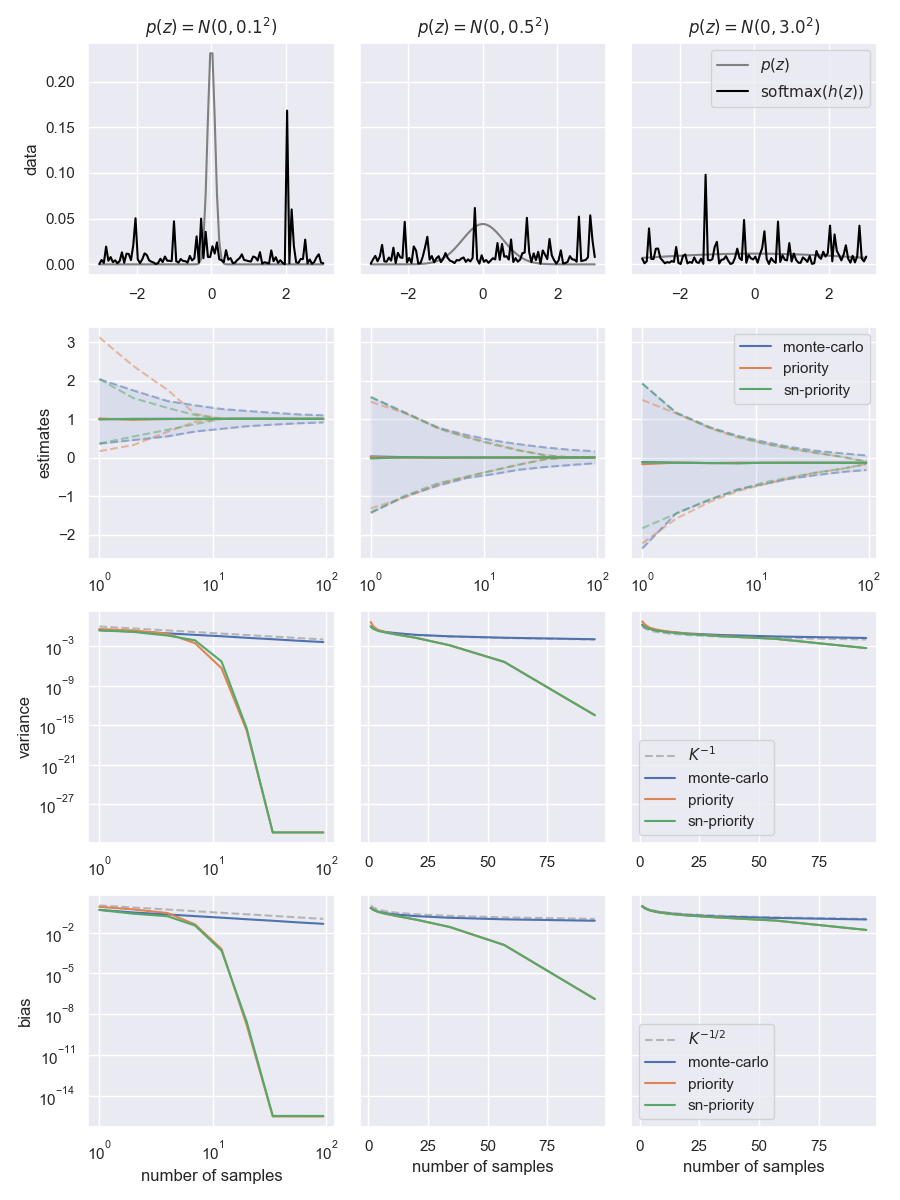
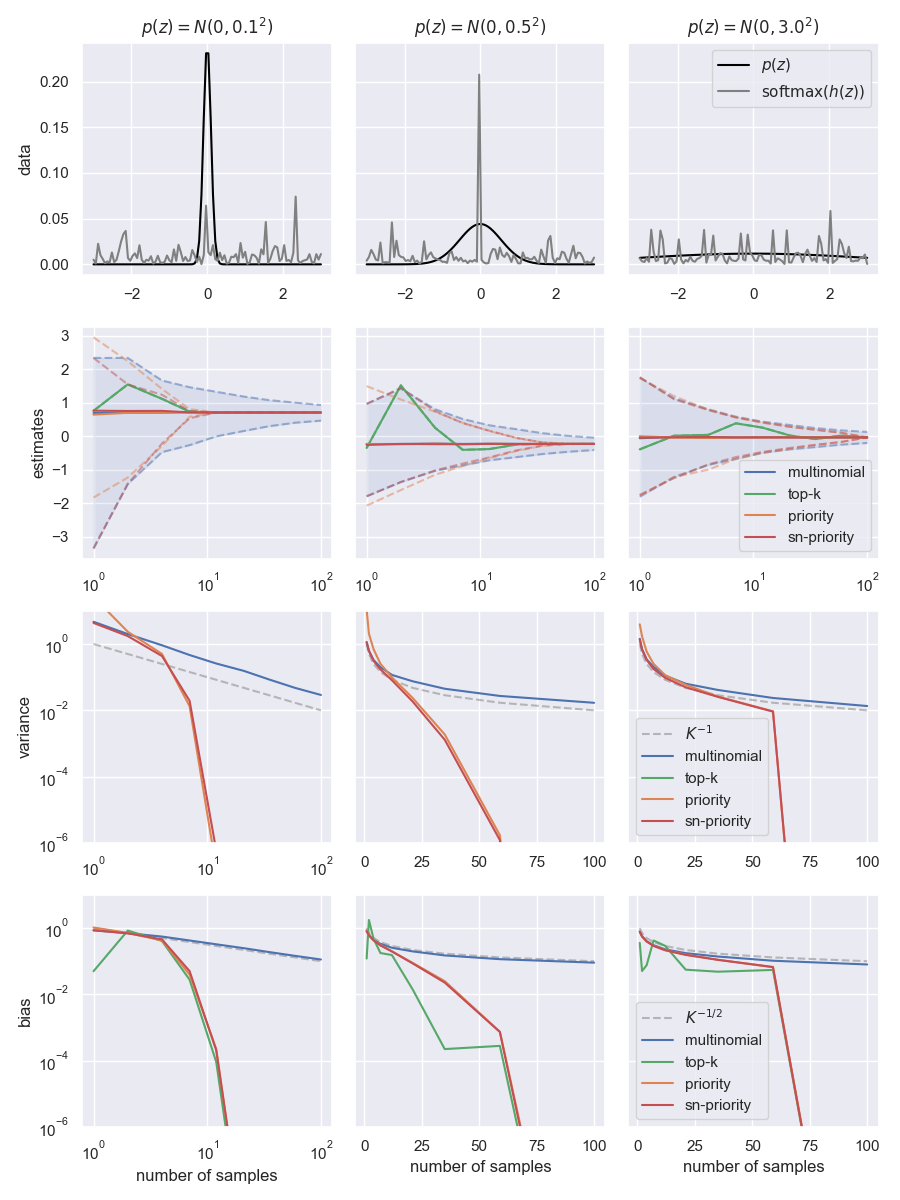
feat: sampling methods+vod grads

diff --git a/experiments/sampling.py b/experiments/sampling.py
@@ -1,4 +1,5 @@
 import argparse
+import dataclasses
 
 import numpy as np
 import rich
@@ -10,12 +11,13 @@ import seaborn as sns
 import vod
 
 sns.set()
+colors = sns.color_palette()
 
 
 class Args(pydantic.BaseModel):
     n_trials: int = 5_000
     n_samples_min: int = 1
-    n_samples_max: int = 95
+    n_samples_max: int = 100
     n_samples_step: int = 10
     world_size: int = 100
     noise_scale_min: float = 1e-1
@@ -57,24 +59,31 @@ def generate_scores(
     return log_p
 
 
+@dataclasses.dataclass
+class SamplerInfo:
+    name: str
+    fn: vod.SampleFn
+    color: str
+
+
 @torch.no_grad()
 def run():
     args = Args.parse()
     rich.print(args)
 
     axis = generate_axis(args.world_size, args.a, args.b)
-    samplers = {
-        "monte-carlo": vod.mc_sample,
-        "priority": vod.priority_sample,
-        "sn-priority": vod.priority_sample,
-    }
+    samplers = [
+        SamplerInfo("multinomial", vod.multinomial_sample, color=colors[0]),
+        SamplerInfo("top-k", vod.topk_sample, color=colors[2]),
+        SamplerInfo("priority", vod.priority_sample, color=colors[1]),
+        SamplerInfo("sn-priority", vod.priority_sample, color=colors[3]),
+    ]
     fig, axes = plt.subplots(
         figsize=(3 * args.noise_scale_step, 3 * 4),
         ncols=args.noise_scale_step,
         nrows=4,
         sharey="row",
     )
-    colors = sns.color_palette()
 
     sample_range = np.logspace(
         np.log10(args.n_samples_min),
@@ -98,19 +107,19 @@ def run():
         h_values = probs + torch.randn_like(f_values)
         expected_value = (h_values * probs).sum(dim=-1)
 
-        for j, (sampler_name, sampler) in enumerate(samplers.items()):
+        for j, (sampler) in enumerate(samplers):
             data = {"mean": [], "upper": [], "lower": [], "var": [], "bias": []}
             for k, n_samples in enumerate(sample_range):
                 f_values_ = f_values[None, :].expand(args.n_trials, -1)
                 if args.tensor_type == "torch":
-                    samples = sampler(f_values_, n_samples=int(n_samples))
+                    samples = sampler.fn(f_values_, n_samples=int(n_samples))
                 elif args.tensor_type == "numpy":
-                    samples = sampler(f_values_.numpy(), n_samples=int(n_samples))
+                    samples = sampler.fn(f_values_.numpy(), n_samples=int(n_samples))
                     samples = samples.to(torch.Tensor)
                 else:
                     raise ValueError(f"Unknown tensor type: {args.tensor_type}")
 
-                if sampler_name.startswith("sn-"):
+                if sampler.name.startswith("sn-"):
                     w = samples.log_weights.softmax(dim=-1)
                 else:
                     w = samples.log_weights.exp()
@@ -137,15 +146,16 @@ def run():
             axes[1, 0].set_ylabel(r"estimates")
             if j == 0:
                 axes[1, i].fill_between(sample_range, data["lower"], data["upper"], alpha=0.1, color=colors[j])
-            axes[1, i].plot(sample_range, data["lower"], color=colors[j], alpha=0.5, linestyle="--")
-            axes[1, i].plot(sample_range, data["upper"], color=colors[j], alpha=0.5, linestyle="--")
-            axes[1, i].plot(sample_range, data["mean"], label=sampler_name, color=colors[j])
+            axes[1, i].plot(sample_range, data["lower"], color=sampler.color, alpha=0.5, linestyle="--")
+            axes[1, i].plot(sample_range, data["upper"], color=sampler.color, alpha=0.5, linestyle="--")
+            axes[1, i].plot(sample_range, data["mean"], label=sampler.name, color=sampler.color)
             if i == len(scale_range) - 1:
                 axes[1, i].legend()
 
             # variance
             axes[2, 0].set_xscale("log")
             axes[2, 0].set_yscale("log")
+            axes[2, 0].set_ylim(1e-6, 1e1)
             axes[2, 0].set_ylabel("variance")
             if j == 0:
                 axes[2, i].plot(
@@ -156,13 +166,14 @@ def run():
                     linestyle="--",
                     alpha=0.5,
                 )
-            axes[2, i].plot(sample_range, data["var"], label=sampler_name, color=colors[j])
+            axes[2, i].plot(sample_range, data["var"], label=sampler.name, color=sampler.color)
             if i == len(scale_range) - 1:
                 axes[2, i].legend()
 
             # bias
             axes[3, 0].set_xscale("log")
             axes[3, 0].set_yscale("log")
+            axes[3, 0].set_ylim(1e-6, 1e1)
             axes[3, 0].set_ylabel("bias")
             axes[3, i].set_xlabel("number of samples")
             if j == 0:
@@ -174,7 +185,7 @@ def run():
                     linestyle="--",
                     alpha=0.5,
                 )
-            axes[3, i].plot(sample_range, data["bias"], label=sampler_name, color=colors[j])
+            axes[3, i].plot(sample_range, data["bias"], label=sampler.name, color=sampler.color)
             if i == len(scale_range) - 1:
                 axes[3, i].legend()
 

diff --git a/experiments/mnist.py b/experiments/mnist.py
@@ -111,23 +111,23 @@ class ConditionalDiscreteVae(torch.nn.Module):
         layers.append(torch.nn.Linear(hidden_size, int(math.prod(output_shape))))
         self.decoder = torch.nn.Sequential(*layers)
 
-    def prior(self, y: torch.Tensor) -> torch.distributions.Categorical:
+    def prior(self, y: torch.Tensor) -> torch.Tensor:
         h_y = self.label_embeddings(y)
-        logits = torch.einsum("id,md-> im", h_y, self.memory)
-        return torch.distributions.Categorical(logits=logits)
+        logits = torch.einsum("...d,md-> ...m", h_y, self.memory)
+        return logits.log_softmax(dim=-1)
 
-    def posterior(self, x: torch.Tensor) -> torch.distributions.Categorical:
+    def posterior(self, x: torch.Tensor) -> torch.Tensor:
         x_flatten = x.view(x.shape[0], -1).float()
         h_x = self.encoder(x_flatten)
-        x_logits = torch.einsum("id,md-> im", h_x, self.memory)
-        return torch.distributions.Categorical(logits=x_logits)
+        logits = torch.einsum("...d,md-> ...m", h_x, self.memory)
+        return logits.log_softmax(dim=-1)
 
     def sample(self, y: Optional[torch.Tensor] = None, n_samples: int = 10) -> torch.Tensor:
         if y is None:
             y = torch.range(0, self.num_labels - 1, device=self.memory.device).long()
         prior = self.prior(y)
-        z = prior.sample(torch.Size((n_samples,)))
-        return self._decode(z)
+        z = vod.priority_sample(prior, n_samples=n_samples)
+        return self._decode(z.indices)
 
     def forward(
         self, x: torch.Tensor, y: torch.Tensor, n_samples: int = 100, alpha: float = 0.0
@@ -135,16 +135,17 @@ class ConditionalDiscreteVae(torch.nn.Module):
         batch_size = x.shape[0]
         prior = self.prior(y)
         posterior = self.posterior(x)
-        z = posterior.sample(torch.Size((n_samples,)))
-        log_p_z = prior.log_prob(z)
-        log_q_z = posterior.log_prob(z)
-        x_logits = self._decode(z)
+        z = vod.priority_sample(posterior, n_samples=n_samples)
+        log_p_z = prior.gather(dim=-1, index=z.indices)
+        log_q_z = posterior.gather(dim=-1, index=z.indices)
+        x_logits = self._decode(z.indices)
         p_x__z = torch.distributions.Bernoulli(logits=x_logits)
-        log_p_x__z = p_x__z.log_prob(x.view(batch_size, -1)[None, ...].float()).sum(dim=-1)
+        log_p_x__z = p_x__z.log_prob(x.view(batch_size, -1)[:, None].float()).sum(dim=-1)
         vod_data = vod.vod_objective(
-            log_p_x__z=log_p_x__z.T,
-            log_p_z=log_p_z.T,
-            log_q_z=log_q_z.T,
+            log_p_x__z=log_p_x__z,
+            log_s=z.log_weights,
+            log_p_z=log_p_z,
+            log_q_z=log_q_z,
             alpha=alpha,
         )
 
@@ -152,7 +153,7 @@ class ConditionalDiscreteVae(torch.nn.Module):
             "x_logits": x_logits,
             "log_p_z": log_p_z,
             "log_p_x__z": log_p_x__z,
-            "loss": vod_data.theta_loss,
+            "loss": vod_data.loss,
             "bound": vod_data.log_p,
         }
 
@@ -204,6 +205,12 @@ def run():
                 pltxt.show()
 
 
+def _log_prob(logits: torch.Tensor, indices: torch.Tensor) -> torch.Tensor:
+    log_probs = logits.log_softmax(-1)
+    rich.print(dict(log_probs=log_probs.shape, indices=indices.shape))
+    return torch.gather(log_probs, -1, indices).squeeze(-1)
+
+
 def _test_model(model: ConditionalDiscreteVae, test_dl: torch.utils.data.DataLoader) -> Iterable[float]:
     for j, (x, y) in enumerate(test_dl):
         if j > 10:
@@ -214,7 +221,7 @@ def _test_model(model: ConditionalDiscreteVae, test_dl: torch.utils.data.DataLoa
 
 def _plot_prior_samples(model, global_step):
     logits = model.sample(n_samples=10).detach()
-    logits = logits.permute(1, 0, 2).reshape(10, 10, 28, 28).contiguous().numpy()
+    logits = logits.reshape(10, 10, 28, 28).contiguous().numpy()
     grid = torchvision.utils.make_grid(
         torch.from_numpy(logits).view(-1, 1, 28, 28),
         nrow=10,

diff --git a/vod/gradients.py b/vod/gradients.py
@@ -1,6 +1,8 @@
 import dataclasses
+import math
 from typing import Optional
 
+import rich
 import torch
 
 
@@ -9,6 +11,12 @@ class VOD:
     log_p: torch.Tensor
     theta_loss: torch.Tensor
     phi_loss: Optional[torch.Tensor] = None
+
+    @property
+    def loss(self) -> torch.Tensor:
+        if self.phi_loss is not None:
+            return self.theta_loss + self.phi_loss
+        return self.theta_loss
 
 
 def vod_objective(
@@ -30,23 +38,64 @@ def vod_objective(
     Returns:
         VOD: VOD bound and its gradients
     """
-
+    bs, n_samples = log_p_x__z.shape
     if log_s is None:
         log_s = torch.zeros_like(log_q_z)
+
     log_zeta = log_p_z - log_q_z
-    log_v_ = log_p_x__z + log_zeta - torch.logsumexp(log_s + log_zeta, dim=-1, keepdim=True)
 
-    # compute the approximate IW-RVB (VOD)
-    self_normalized_bound = 1 / (1 - alpha) * torch.logsumexp(log_s + (1 - alpha) * log_v_, dim=-1)
-
-    # compute the gradients
-    log_p_z_grad_ = log_p_z - torch.sum(
-        torch.softmax(log_s + log_zeta, dim=-1).detach() * log_zeta,
-        dim=-1,
-        keepdim=True,
+    # compute the IWB
+    log_p = _sn_riw_bound(
+        log_p_x__z=log_p_x__z,
+        log_zeta=log_zeta,
+        log_s=log_s,
+        alpha=0,
     )
 
-    w = torch.softmax(log_s + (1 - alpha) * (log_p_x__z + log_zeta), dim=-1)
-    loss = -torch.sum(w.detach() * (log_p_x__z + log_p_z_grad_), dim=-1)
+    # compute the approximate IW-RVB (VOD)
+    self_normalized_bound = _sn_riw_bound(log_p_x__z=log_p_x__z, log_zeta=log_zeta, log_s=log_s, alpha=alpha)
 
-    return VOD(log_p=self_normalized_bound, theta_loss=loss, phi_loss=None)
+    # compute the gradients for `log p(z)`
+    log_p_z_grad = log_p_z - torch.sum(torch.softmax(log_s + log_zeta, dim=-1).detach() * log_p_z, dim=-1, keepdim=True)
+
+    # compute the loss for `theta`
+    w = torch.softmax(log_s + (1 - alpha) * (log_p_x__z + log_zeta), dim=-1)
+    theta_loss = -torch.sum(w.detach() * (log_p_x__z + log_p_z_grad), dim=-1)
+
+    # compute the loss for `phi`
+    with torch.no_grad():
+        log_p_x__z_ = log_p_x__z[:, None, :].expand(bs, n_samples, n_samples)
+        log_zeta_ = log_zeta[:, None, :].expand(bs, n_samples, n_samples)
+        log_s_ = log_s[:, None, :].expand(bs, n_samples, n_samples)
+        ids = torch.arange(n_samples, device=log_p_x__z.device)[None, :, None]
+        log_p_x__z_ = log_p_x__z_.scatter(-1, ids, -math.inf)
+        log_zeta_ = log_zeta_.scatter(-1, ids, -math.inf)
+        log_s_ = log_s_.scatter(-1, ids, -math.inf)
+        self_normalized_bound_ = _sn_riw_bound(log_p_x__z=log_p_x__z_, log_zeta=log_zeta_, log_s=log_s_, alpha=alpha)
+        controlled_score = self_normalized_bound[:, None] - self_normalized_bound_
+    phi_loss = -torch.sum(controlled_score.detach() * log_q_z, dim=-1)
+
+    # rich.print(dict(
+    #     log_s=log_s[0],
+    #     log_s_=log_s_[0],
+    #     self_normalized_bound=self_normalized_bound[0],
+    #     self_normalized_bound_=self_normalized_bound_[0],
+    #     log_p_x__z=log_p_x__z[0],
+    #     log_p_x__z_=log_p_x__z_[0],
+    #     controlled_score=controlled_score[0],
+    #     log_q_z=log_q_z[0],
+    #     theta_loss=theta_loss.mean(),
+    #     phi_loss=phi_loss.mean(),
+    # ))
+
+    return VOD(log_p=log_p, theta_loss=theta_loss, phi_loss=phi_loss)
+
+
+def _sn_riw_bound(*, log_p_x__z: torch.Tensor, log_zeta: torch.Tensor, log_s: torch.Tensor, alpha: float = 0.0):
+    """Compute the self-normalized Rényi importance weighted bound."""
+    if alpha == 1.0:
+        raise NotImplementedError("alpha=1.0 is not implemented yet (case RVB=ELBO).")
+    log_s_normed = torch.log_softmax(log_s, dim=-1)
+    log_v = log_p_x__z + log_zeta - torch.logsumexp(log_s_normed + log_zeta, dim=-1, keepdim=True)
+    self_normalized_bound = 1 / (1 - alpha) * torch.logsumexp(log_s_normed + (1 - alpha) * log_v, dim=-1)
+    return self_normalized_bound

diff --git a/vod/sampling.py b/vod/sampling.py
@@ -81,7 +81,7 @@ class RunAsTorch:
             raise TypeError(f"Unknown type for scores: {type(scores)}")
 
 
-def mc_sample(scores: Ts, n_samples: int) -> Samples[Ts]:
+def multinomial_sample(scores: Ts, n_samples: int) -> Samples[Ts]:
     scores_type = type(scores)
     sample_fn = {
         torch.Tensor: _mc_sample_torch,
@@ -157,6 +157,7 @@ def _priority_sample_torch(scores: torch.Tensor, n_samples: int, mode: str = "un
 def _topk_sample_torch(scores: torch.Tensor, n_samples: int) -> Samples[torch.Tensor]:
     """Sample the top-K values."""
     indices = scores.argsort(dim=-1, descending=True)[..., :n_samples]
-    log_weight = torch.zeros_like(indices, dtype=torch.float32) - math.log(indices.shape[-1])
+    log_weight = scores.gather(dim=-1, index=indices)
+    log_weight = log_weight.log_softmax(dim=-1)
 
     return Samples(indices=indices, log_weights=log_weight)

diff --git a/vod/__init__.py b/vod/__init__.py
@@ -1,2 +1,2 @@
 from .gradients import vod_objective
-from .sampling import mc_sample, Samples, priority_sample
+from .sampling import multinomial_sample, Samples, priority_sample, topk_sample, SampleFn

diff --git a/README.md b/README.md
@@ -3,3 +3,44 @@
 Core methods (priority sampling, gradients) for Variational Open-Domain QA/LM.
 
 > **Warning**: refactoring in progress, coming soon!
+
+## A. Monte-Carlo estimators for Categorical distributions
+
+This package provides sampling methods to estimate the weighted mean of a function $h(\mathbf{z})$ weighted by a categorical distribution $p(\mathbf{s})$:
+
+$$\mu = \mathbb{E}_{p(\mathbf{z})}[h(\mathbf{z})] $$ 
+
+Estimating the mean via Monte Carlo consists of 
+1. Sampling $K$ indices $\mathbf{z}_1, \ldots, \mathbf{z}_K$ from $p(\mathbf{z})$ with weights $\mathbf{s}_1, \ldots, \mathbf{s}_K$. 
+2. Computing the weighted mean estimate: $\hat{\mu} = \sum_{i=1}^K s_i h(\mathbf{z}_i)$.
+
+![Convergence of Monte-Carlo estimators.](.assets/mc_convergence.png)
+
+This package provides three samplers:
+1. `multinomial`: the standard multinomial sampler (`vod.multinomial_sampler`).
+2. `topk`: a top-k sampler (`vod.topk_sampler`).
+3. `priority`: a priority sampler (`vod.priority_sampler`).
+
+
+Samplers come in the form 
+```python
+class SampleFn(Protocol[Ts]):
+    def __call__(self, scores: Ts, n_samples: int) -> Samples[Ts]:
+        ...
+```
+with outputs
+```python
+Ts = TypeVar("Ts", bound=Union[torch.Tensor, np.ndarray])
+
+@dataclasses.dataclass
+class Samples(Generic[Ts]):
+    indices: Ts
+    log_weights: Ts
+```
+
+
+## B. Gradient estimation
+
+This package implements the VOD objective and its differentiable loss terms. See `vod.vod_objective`.
+
+
